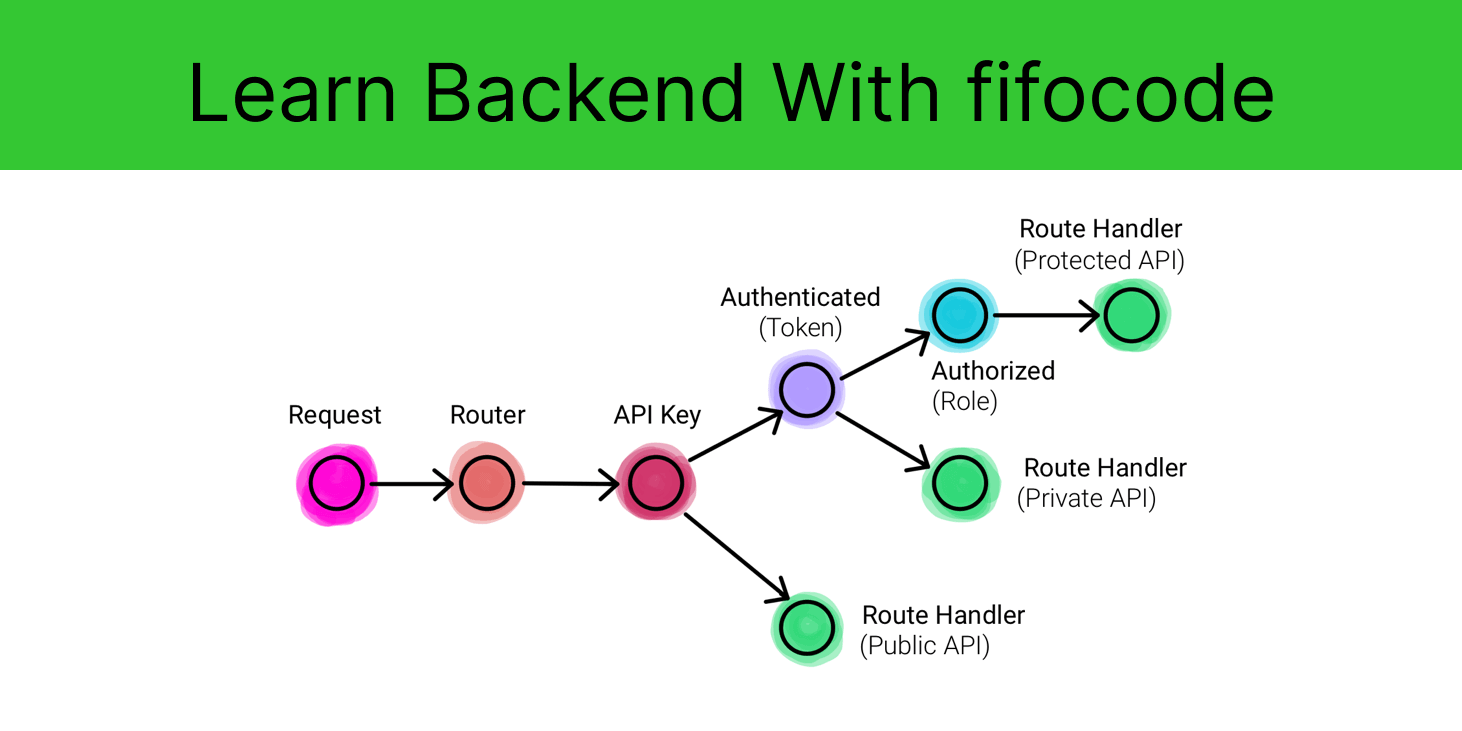
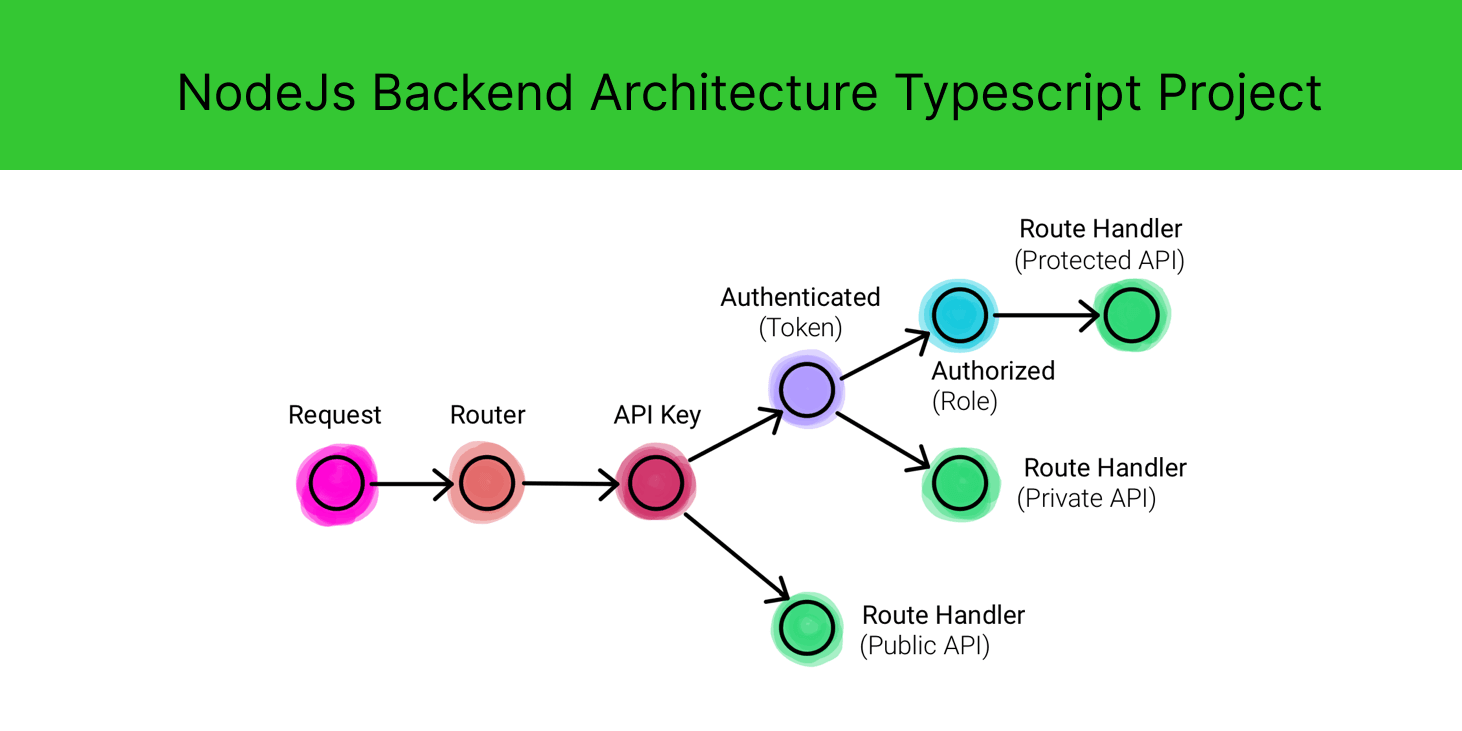
Merge pull request #73 from afteracademy/readme-and-assets
update assets and readme

Pull request: update assets and readme

Changed region(s): [[0.1231, 0.0602, 0.9234, 0.1806]]

diff --git a/README.md b/README.md
@@ -144,6 +144,10 @@ $ npm test
 
 ## API DOC
 [![API Documentation](https://img.shields.io/badge/API%20Documentation-View%20Here-blue?style=for-the-badge)](https://documenter.getpostman.com/view/1552895/2s8Z6u4a6N)
+
+## Learn To Deploy This API Service On Amazon EC2 - YouTube Video
+[![YouTube Video](https://img.shields.io/badge/YouTube%20Video-Watch%20Here-red?style=for-the-badge)](https://youtu.be/wQ0SHBX_hlY?si=F1QA_6mGWd52XOT1)
+
   
 ## Learn Backend Development From Our Videos
   * [Introduction to Web Backend Development for Beginners](https://youtu.be/SikmqyFocKQ)